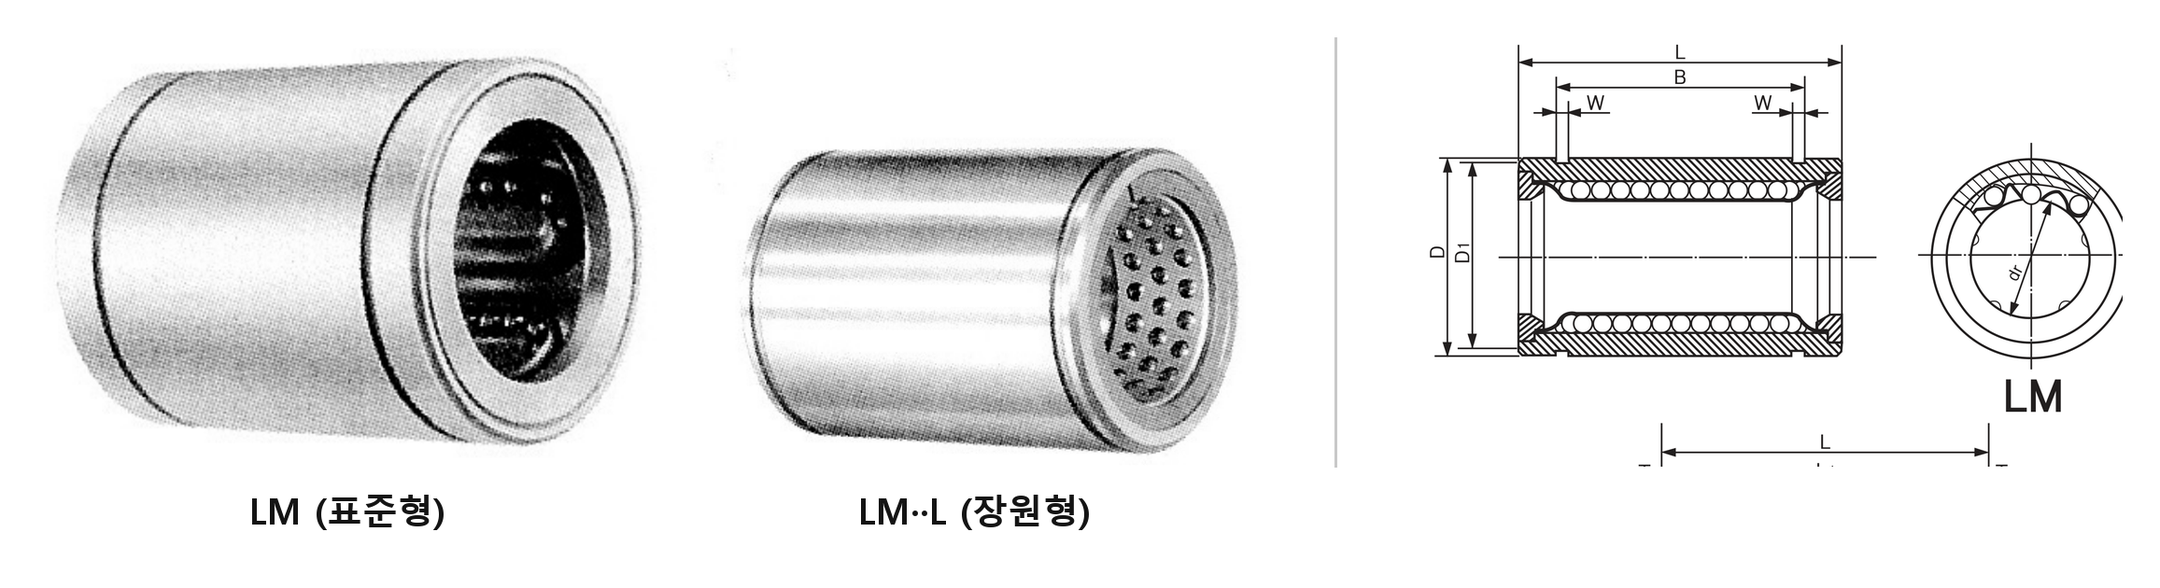
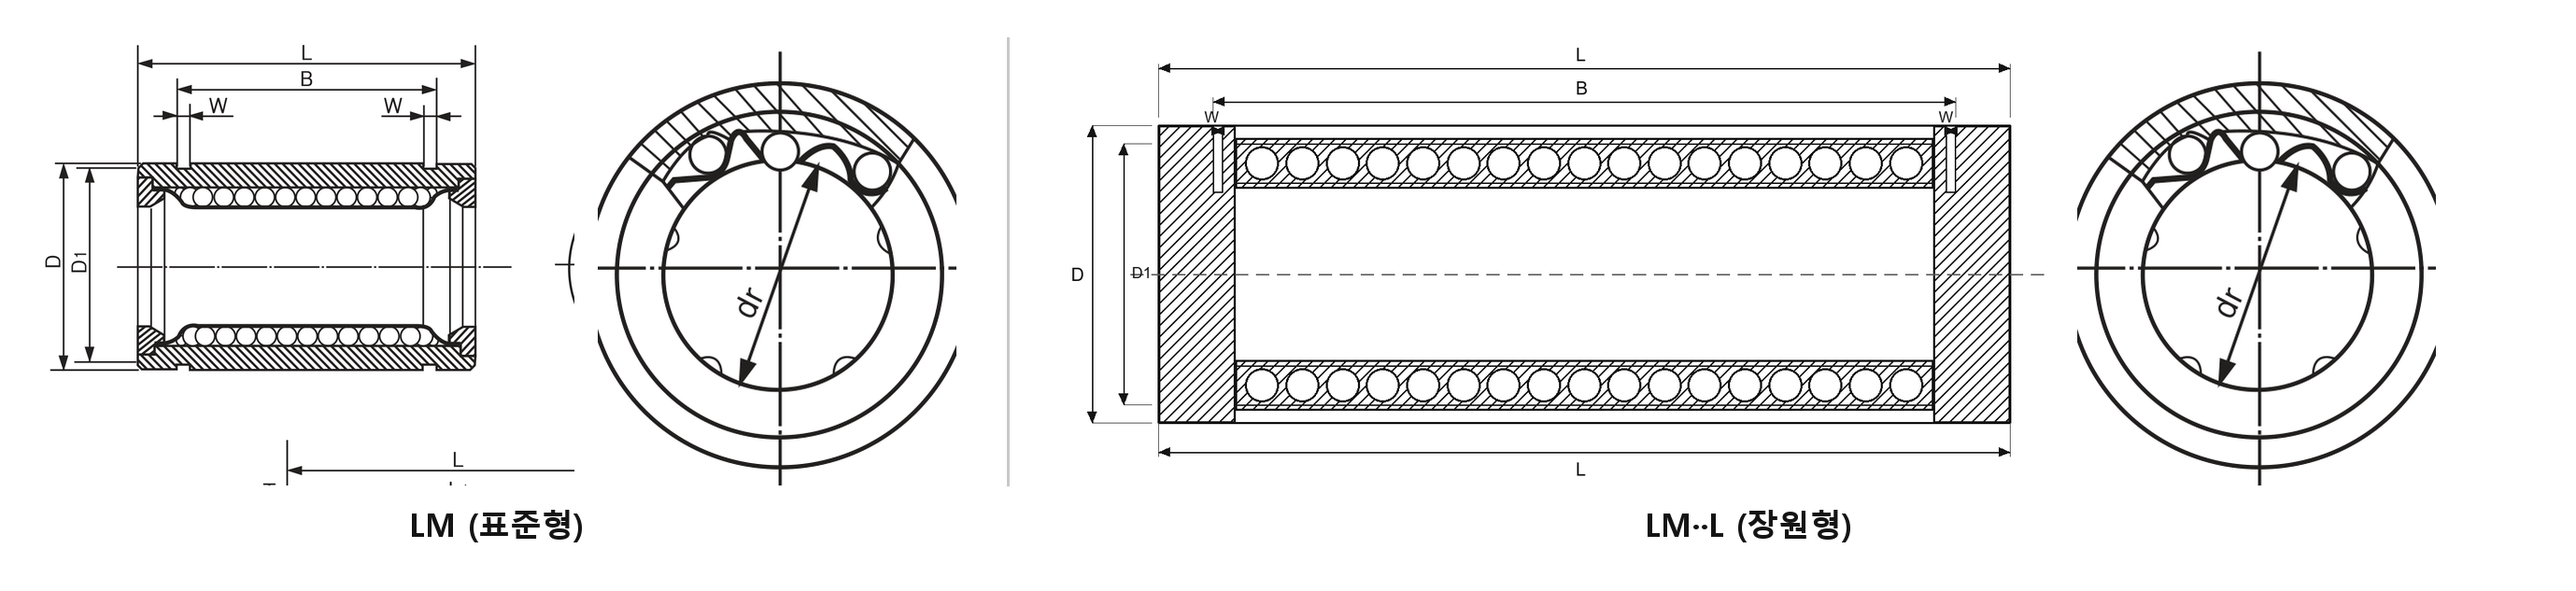
linear_bushing.html: LM 도면에 LM..L(장원형) 참고 단면도 추가
제품 사진 대신 LMF/LMFL 탭과 동일한 스타일(단면도+정면도)로 구성.
SWS 카탈로그는 LM/LM..L 단면도를 1개로 공용 표기(몸체 길이만 다름)
하므로, LM은 카탈로그 실측 도면을 그대로 쓰고 LM..L은 몸체를 늘린
본사 편집 참고도로 별도 제작해 '카탈로그 실측 도면 아님'을 명시.

diff --git a/company-homepage/linear_bushing.html b/company-homepage/linear_bushing.html
@@ -117,9 +117,9 @@
       <div class="cat-tab-panel" data-panel="lm">
         <p class="cat-tab-panel-desc">LM(표준형)·LM..L(장원형) 리니어 부시입니다. 플랜지 없이 몸체만으로 하우징에 압입해 사용하는 가장 기본적인 형태입니다.</p>
         <div class="diagram-box">
-          <p class="diagram-caption">당사 SWS 카탈로그 규격 도면</p>
-          <img src="img/lm_lm.png" alt="LM(표준형)·LM··L(장원형) 실물 사진 및 구조 단면도" style="display: block; margin: 0 auto; height: clamp(180px, 26vw, 320px); width: auto; max-width: 100%;" loading="lazy">
-          <p class="diagram-legend">좌: LM(표준형) · 중: LM··L(장원형, 몸체만 길어진 형태) · 우: 공통 단면도 — d(내경) · D(외경) · B(볼 유효길이) · L(전장) · W(스냅링 홈 간격). L 값만 아래 표 기준으로 다릅니다.</p>
+          <p class="diagram-caption">좌: 당사 SWS 카탈로그 규격 도면(LM) · 우: 본사 편집 참고도(LM··L, 카탈로그 실측 도면 아님 — SWS 카탈로그는 LM·LM··L 단면도를 1개로 공용 표기하여, 몸체가 길어진 형태를 참고용으로 재구성)</p>
+          <img src="img/lm_lm.png" alt="LM(표준형) 카탈로그 단면도와 LM··L(장원형) 참고 단면도" style="display: block; margin: 0 auto; height: clamp(180px, 26vw, 320px); width: auto; max-width: 100%;" loading="lazy">
+          <p class="diagram-legend">d(내경) · D(외경) · B(볼 유효길이) · L(전장) · W(스냅링 홈 간격). 두 타입 모두 동일 기호를 사용하며, L 값만 아래 표 기준으로 다릅니다.</p>
         </div>
         <div class="field" style="max-width: 320px; margin-bottom: 16px;">
           <label for="lmFilter">형번 / 규격 검색</label>
